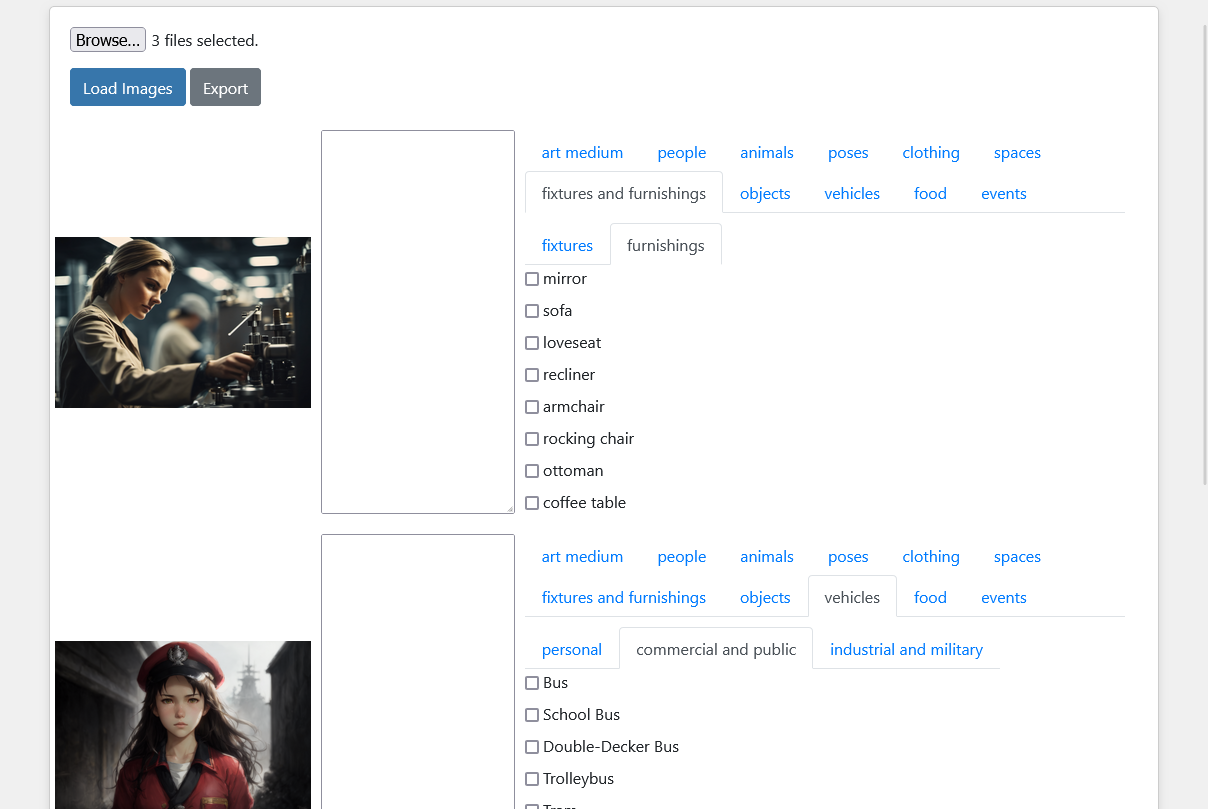
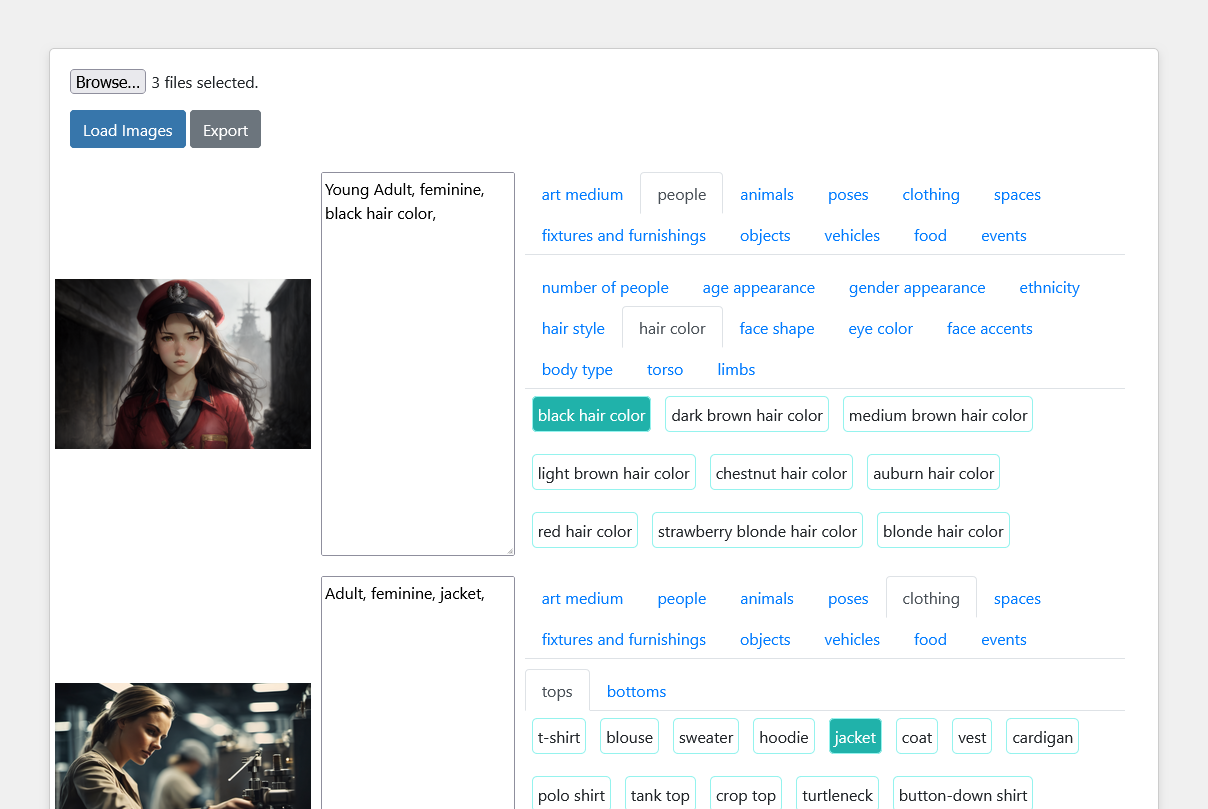
-

diff --git a/README.md b/README.md
@@ -45,8 +45,6 @@ For the latest, clone this repository:
 
 ## Current Issues:
 <ul>
-    <li>Styling issue with tab height</li>
-    <li>Appearance of tags in tabs</li>
     <li>Imported tags aren't checked against the tags library</li>
     <li>The current layout does not work well with screens under 1280px wide at this time</li>
     <li>Zipped file should use batch number in filename</li>
